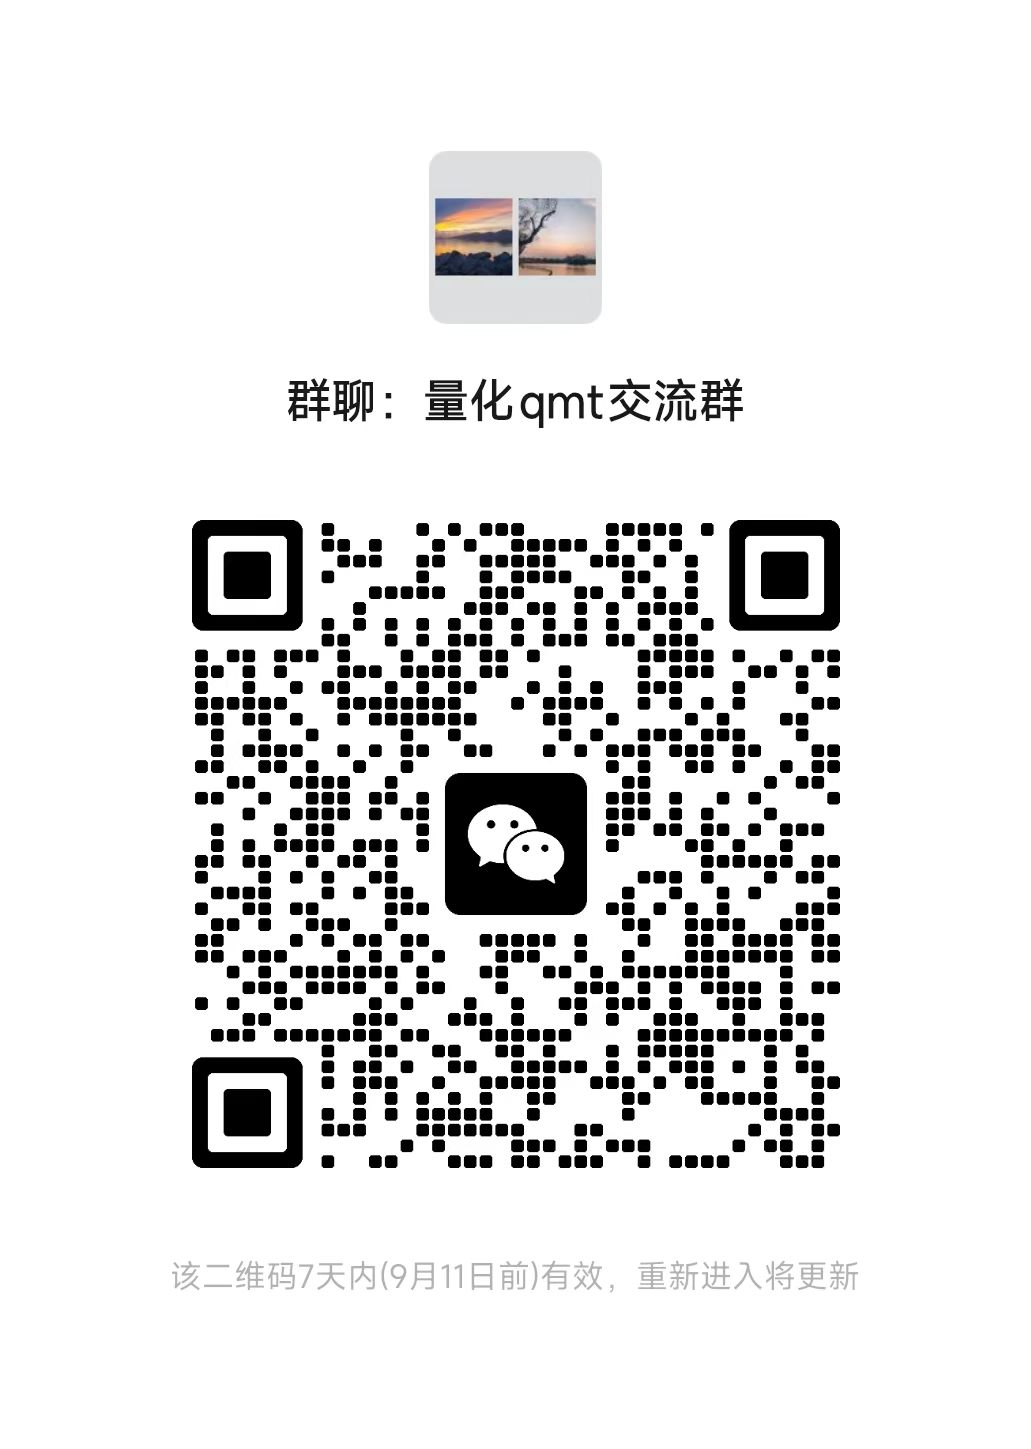
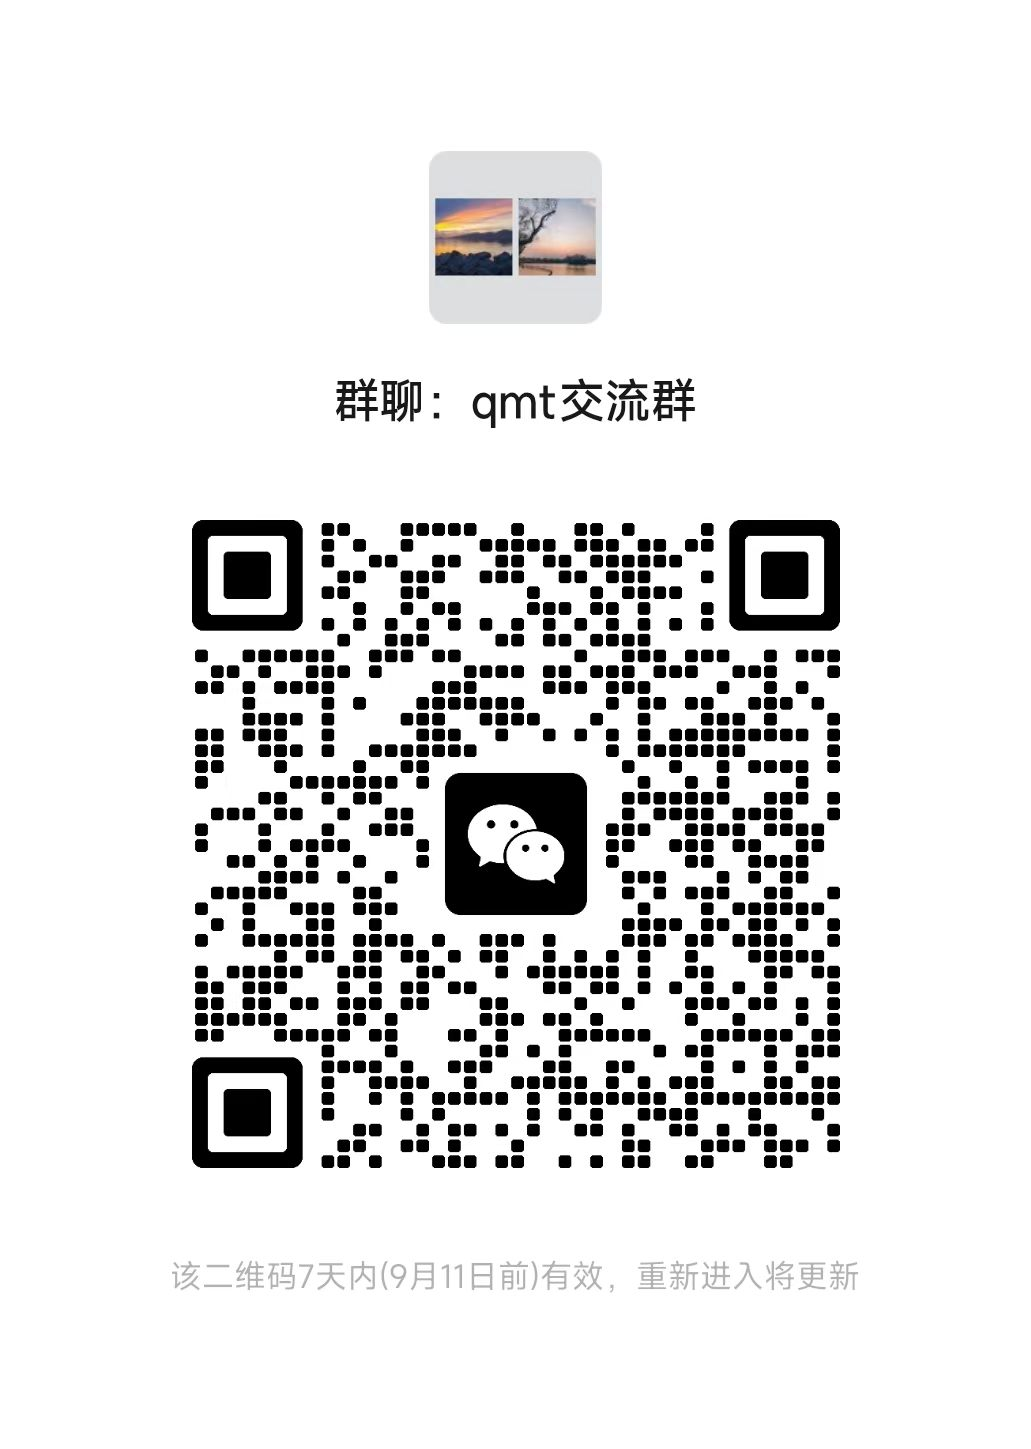
README: refresh the group QR (group renamed to qmt 交流群)
New invite code, same 7-day window ending 2026-09-11. The group name lost its
量化 prefix, so the heading and alt text follow it.

Changed region(s): [[0.1862, 0.3416, 0.838, 0.8075], [0.2793, 0.2484, 0.7139, 0.3106]]

diff --git a/README.md b/README.md
@@ -16,11 +16,11 @@
 
 ---
 
-### 讨论组：微信群「量化 qmt 交流群」
+### 讨论组：微信群「qmt 交流群」
 
 用微信扫码进群：
 
-<img src="docs/assets/wechat-group-qr.jpg" alt="量化 qmt 交流群" width="320">
+<img src="docs/assets/wechat-group-qr.jpg" alt="qmt 交流群" width="320">
 
 > **二维码会过期。** 这张是 2026-09-04 生成的，微信群邀请码 7 天有效（本张到 2026-09-11）。
 > 过期后扫码会提示无效 —— 这不是项目的问题，[开个 issue](https://github.com/litaolemo/xtquant_big_convert/issues) 说一声，会换新的。
